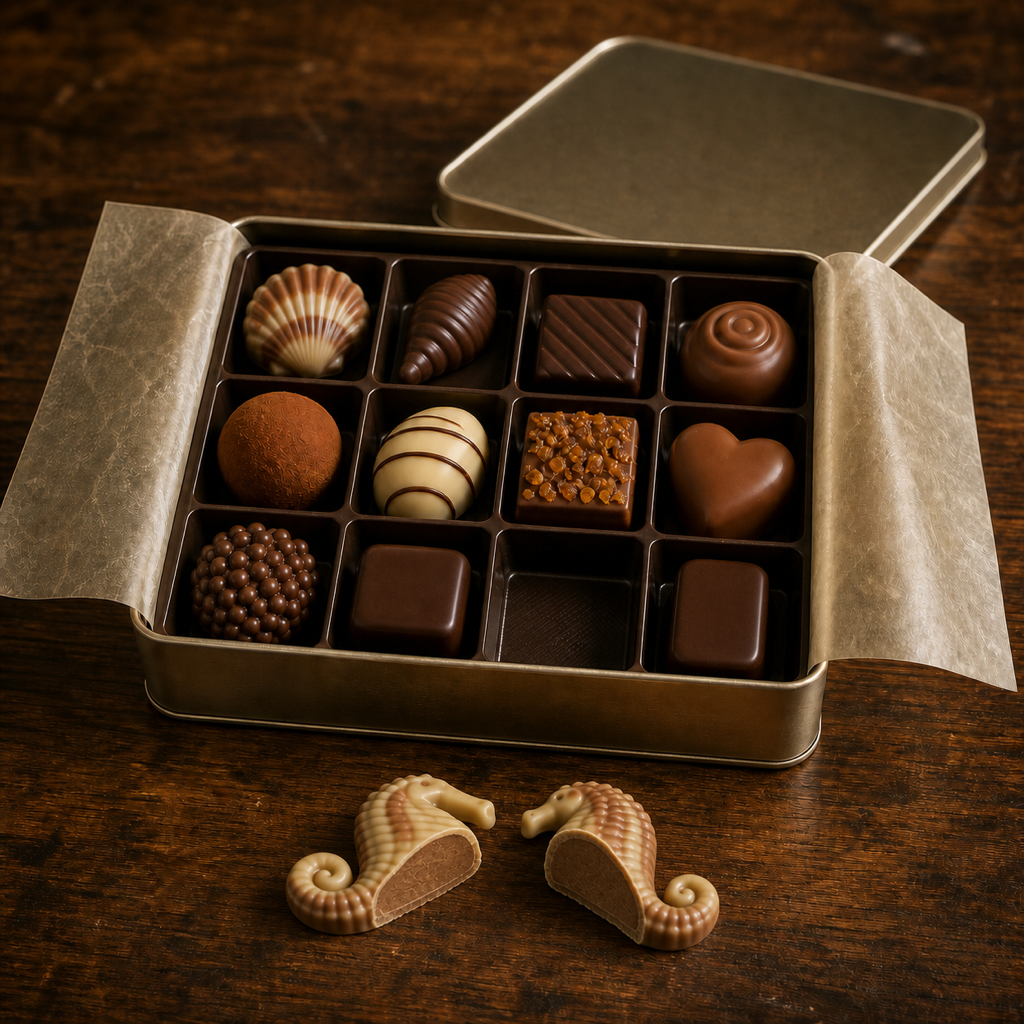
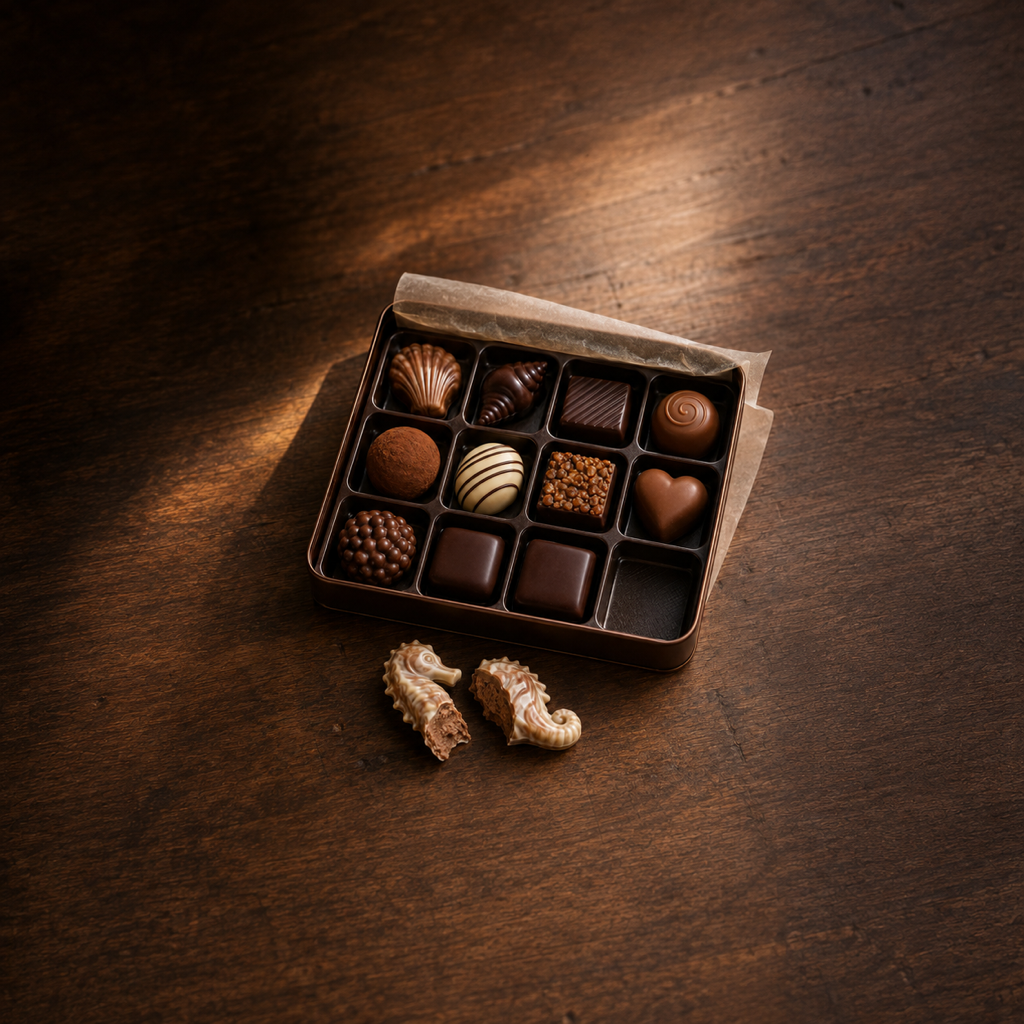
海马/心两张重生：两半是同一道断口的两面（她审出镜像）

diff --git a/tools/gen_images.py b/tools/gen_images.py
@@ -28,7 +28,7 @@ SCENE = {
     "tin": "An open square tin of assorted chocolates, lid off, translucent tissue paper lifted back, a twelve-cell "
            "tray in which every piece is different: {tray_list}. Exactly ONE cell is empty: the cell of THIS piece. "
            "In front of the tin on the wood: THIS piece, taken out and broken in half, break edge toward the camera: "
-           "{this}. If the piece is described as dark chocolate, its shell must be dark near-black brown, not milk; if salt crystals are described, coarse white salt grains must be visible on top.",
+           "{this}. The piece is broken into TWO halves of ONE piece: the two cut faces are the two sides of the same break and would fit back together (complementary, not mirrored copies); one half may show the cut face and the other its outside. If the piece is described as dark chocolate, its shell must be dark near-black brown, not milk; if salt crystals are described, coarse white salt grains must be visible on top.",
 }
 
 
